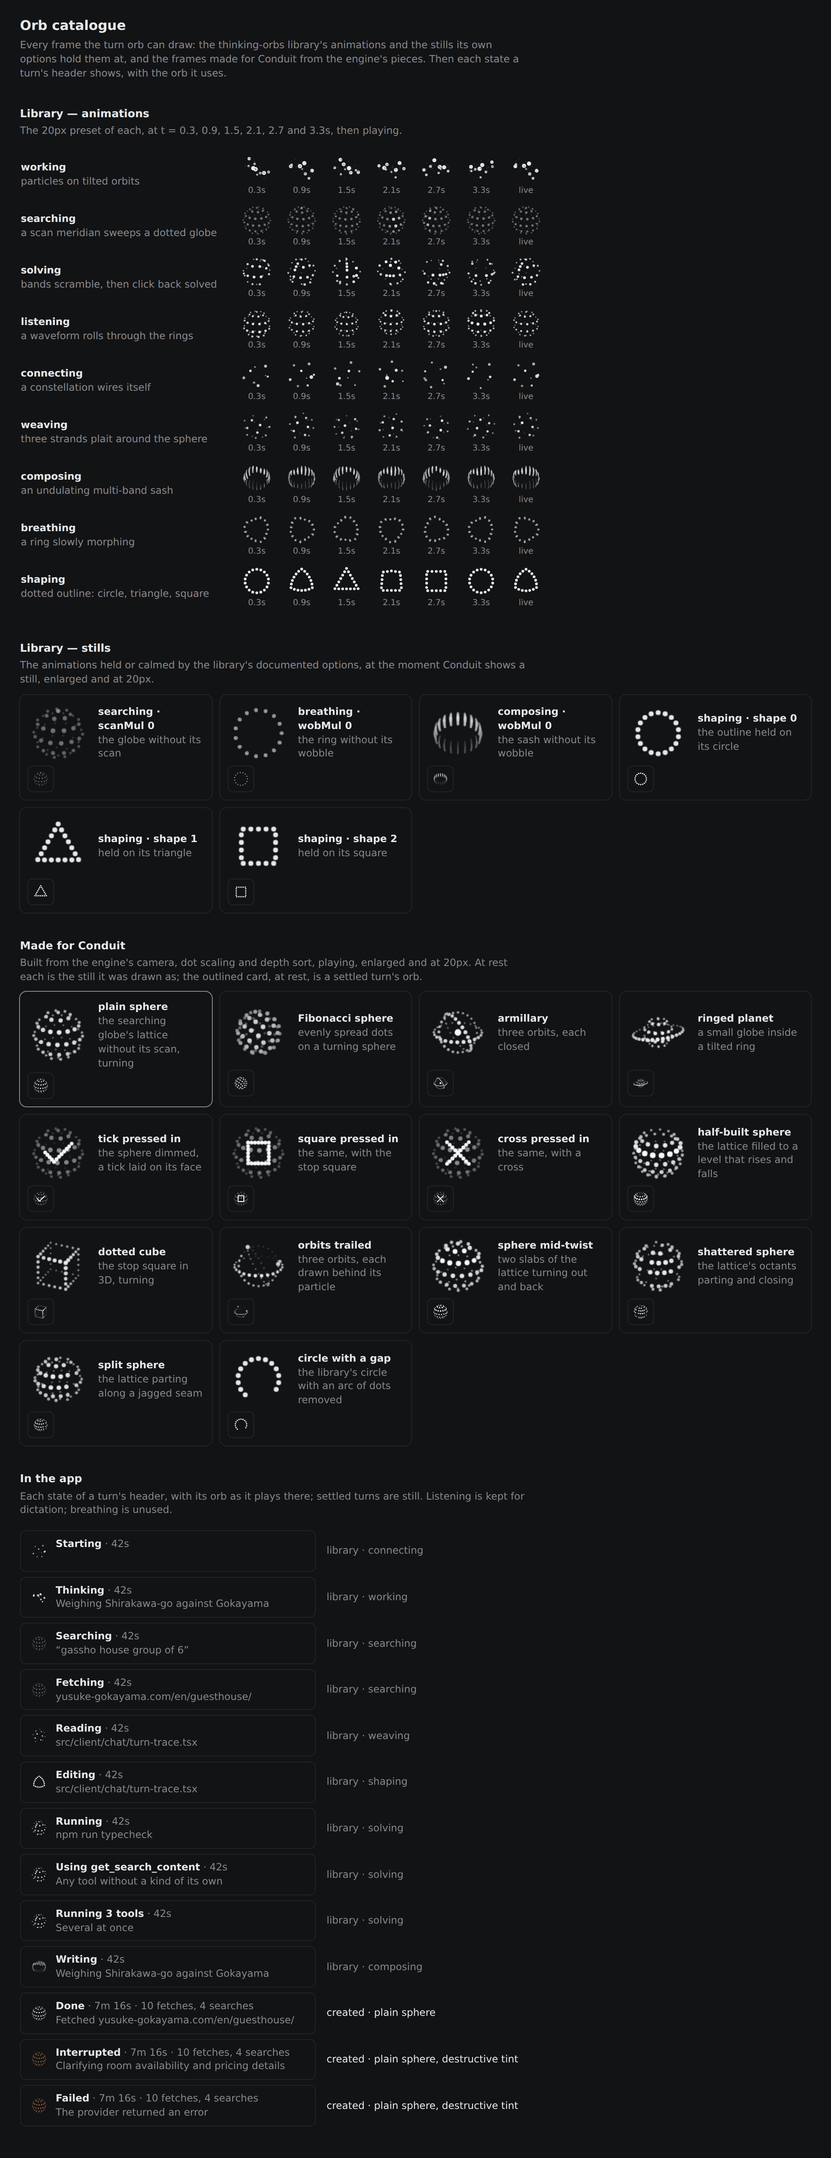
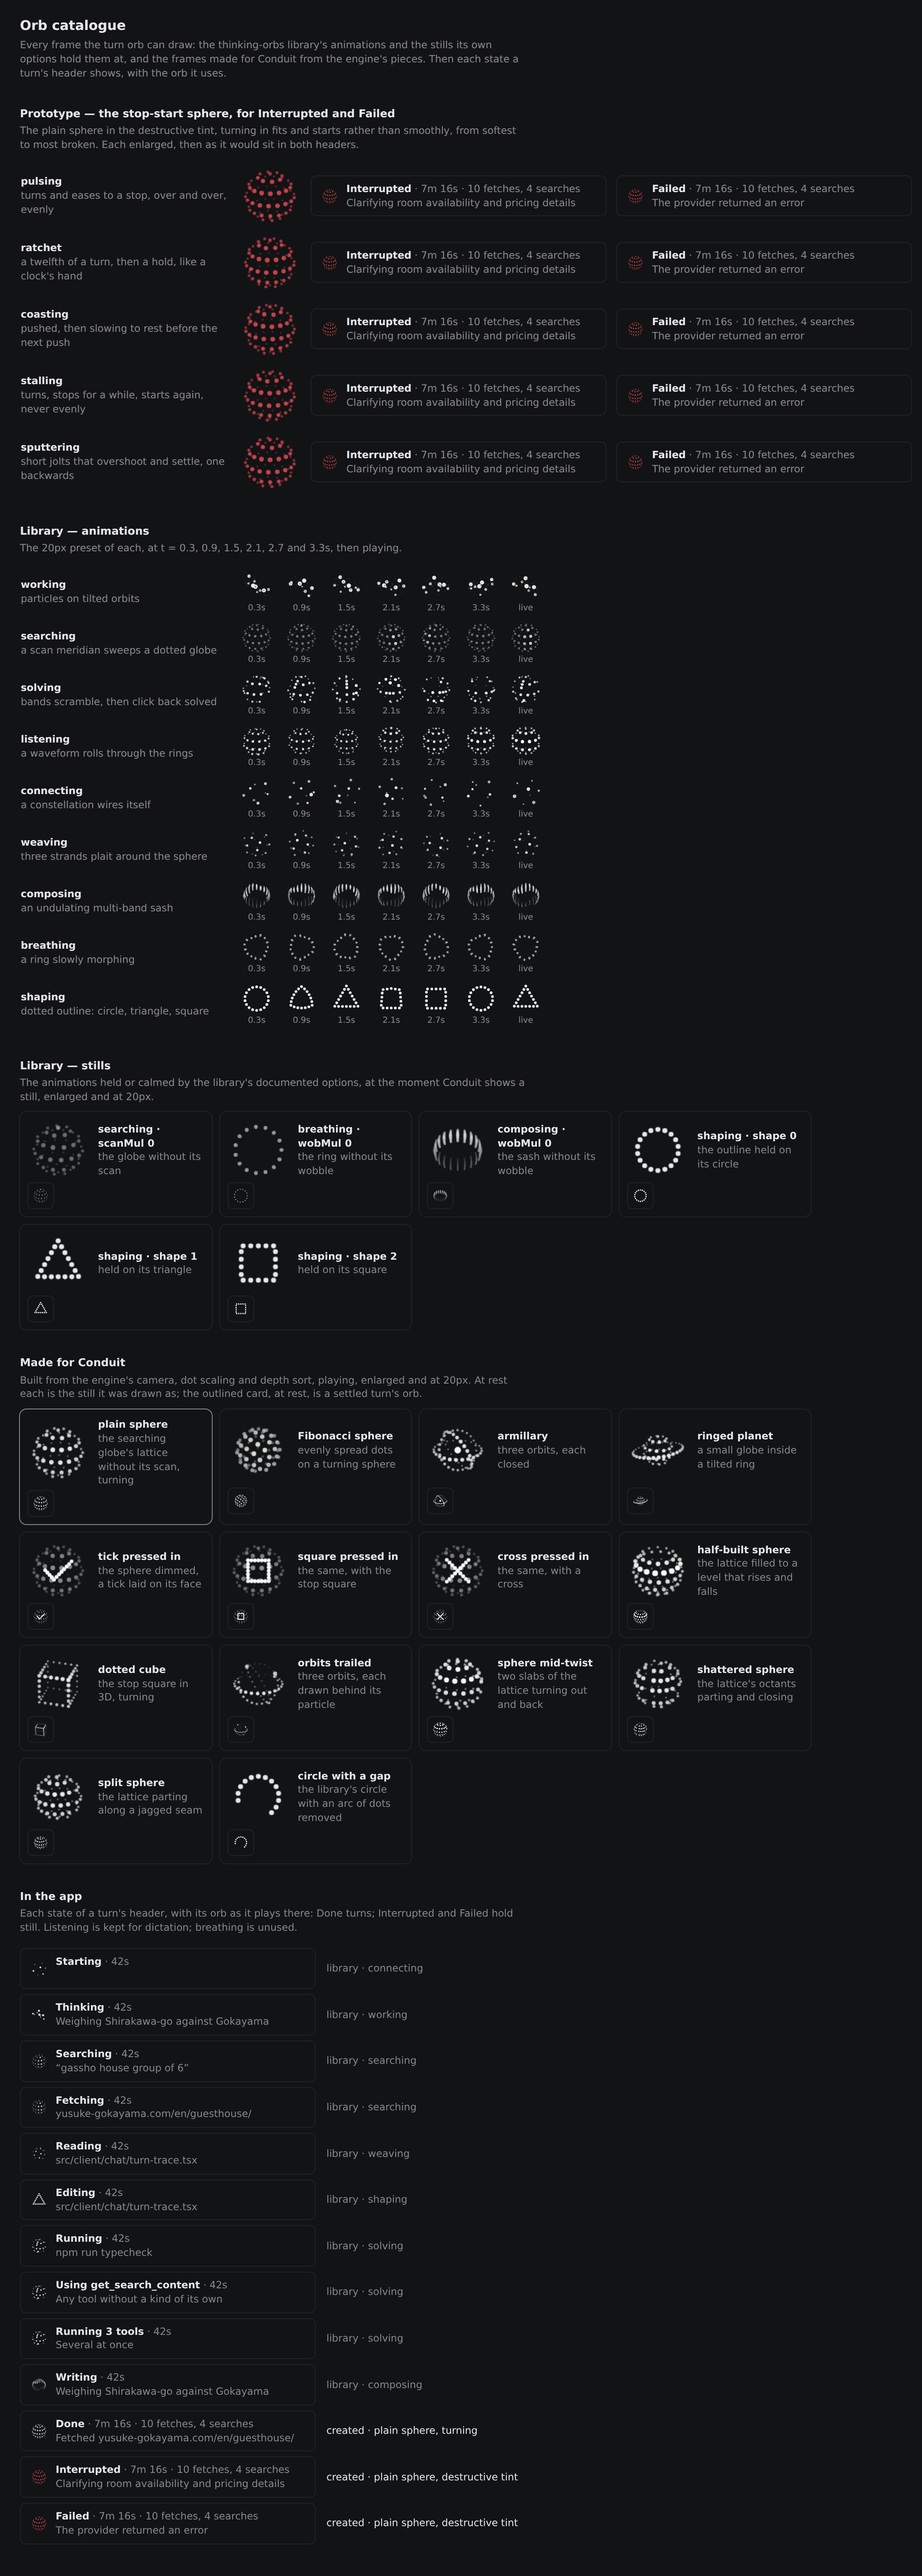
A finished turn's sphere turns, and the catalogue prototypes a stop-start sphere for turns that did not finish
Done plays the plain sphere turning slowly, a full turn in about twelve
seconds; Interrupted and Failed hold it still in the destructive tint. A
frame drawn for Conduit is given plain seconds rather than the preset speed
of whatever state it stands in for. The catalogue opens with five stop-start
turns of the same sphere, tinted, from an even pulse to a sputter, each shown
in both headers.

Claude-Session: https://claude.ai/code/session_01Fp6u71kgB3uYM7cXSJCU3s

diff --git a/docs/orb-stills/catalogue.js b/docs/orb-stills/catalogue.js
@@ -55,10 +55,31 @@ const gapped = (frame, at, half) => ({ ...frame, dots: frame.dots.filter((d) => 
 const SPIN = 0.5;
 const ease = (t, rate) => 0.5 - 0.5 * Math.cos(t * rate);
 
-function plainSphere(t = 0) {
-  const pt = makeProj(0.55 + t * SPIN, 0.42, C, C, R);
+function sphereAt(yaw) {
+  const pt = makeProj(yaw, 0.42, C, C, R);
   return finalizeFrame(lattice(6, 17).map(({ p }) => { const [x, y, z] = pt(...p); return shade(x, y, z, (z + 1) / 2); }), [], 0.3);
 }
+const plainSphere = (t = 0) => sphereAt(0.55 + t * SPIN);
+
+/* How far the sphere has turned by `t`, told as a loop of segments:
+   [seconds, radians, easing]. A segment without radians is a hold. */
+const smooth = (x) => x * x * (3 - 2 * x);
+const easeOut = (x) => 1 - (1 - x) ** 3;
+const backOut = (x) => 1 + 2.7 * (x - 1) ** 3 + 1.7 * (x - 1) ** 2;
+function turning(segments) {
+  const period = segments.reduce((sum, [seconds]) => sum + seconds, 0);
+  const lap = segments.reduce((sum, [, radians = 0]) => sum + radians, 0);
+  return (t) => {
+    const loops = Math.floor(t / period);
+    let rest = t - loops * period, angle = loops * lap;
+    for (const [seconds, radians = 0, ease = smooth] of segments) {
+      if (rest < seconds) return angle + radians * ease(rest / seconds);
+      angle += radians; rest -= seconds;
+    }
+    return angle;
+  };
+}
+const stopStart = (angle) => (t = 0) => sphereAt(0.55 + angle(t));
 
 function fibonacciSphere(t) {
   const n = 64, dots = [];
@@ -192,6 +213,16 @@ export const CREATED = [
   ["circle with a gap", "the library's circle with an arc of dots removed", (t = 0) => gapped(still("shaping", { shape: 0 })(), -Math.PI / 4 + t * 2.4, 0.75)],
 ];
 
+/* Prototypes for a turn that did not finish: the plain sphere turning in
+   fits and starts, from softest to most broken. */
+export const PROTOTYPES = [
+  ["pulsing", "turns and eases to a stop, over and over, evenly", stopStart((t) => SPIN * (t - Math.sin(t * 2.2) / 2.2))],
+  ["ratchet", "a twelfth of a turn, then a hold, like a clock's hand", stopStart(turning([[0.3, TAU / 12], [0.7]]))],
+  ["coasting", "pushed, then slowing to rest before the next push", stopStart(turning([[2.2, 1.5, easeOut], [0.9]]))],
+  ["stalling", "turns, stops for a while, starts again, never evenly", stopStart(turning([[1.1, 0.8], [0.9], [0.45, 0.22], [1.3], [0.8, 0.5], [0.5]]))],
+  ["sputtering", "short jolts that overshoot and settle, one backwards", stopStart(turning([[0.16, 0.26, backOut], [0.55], [0.12, 0.14, backOut], [1.0], [0.2, -0.07], [0.35], [0.14, 0.3, backOut], [1.2]]))],
+];
+
 /* Each state a turn's header shows, the orb it shows it with, and a line of
    the kind that sits under it. */
 export const IN_APP = [
@@ -205,7 +236,7 @@ export const IN_APP = [
   ["Using get_search_content", "Any tool without a kind of its own", "library · solving", animation("solving")],
   ["Running 3 tools", "Several at once", "library · solving", animation("solving")],
   ["Writing", "Weighing Shirakawa-go against Gokayama", "library · composing", animation("composing")],
-  ["Done", "Fetched yusuke-gokayama.com/en/guesthouse/", "created · plain sphere", plainSphere, { settled: true }],
+  ["Done", "Fetched yusuke-gokayama.com/en/guesthouse/", "created · plain sphere, turning", plainSphere, { settled: true, play: true }],
   ["Interrupted", "Clarifying room availability and pricing details", "created · plain sphere, destructive tint", plainSphere, { settled: true, tint: true }],
   ["Failed", "The provider returned an error", "created · plain sphere, destructive tint", plainSphere, { settled: true, tint: true }],
 ];

diff --git a/conduit-web/src/client/chat/turn-trace.tsx b/conduit-web/src/client/chat/turn-trace.tsx
@@ -5,7 +5,7 @@ import type { Message, ToolItem, ToolKind } from "../api/contracts";
 import type { TraceSegment, TurnTraceData } from "../turn-rows";
 import { KIND_ICONS, stepDuration, ToolStep, VERBS } from "./tool-card";
 import "./turn-trail.css";
-import { ORB_AT_REST } from "./orb-stills";
+import { PLAIN_SPHERE } from "./orb-stills";
 import { ThinkingOrb, type ModeFrame, type OrbState } from "./thinking-orb";
 import { Disclosure } from "./disclosure";
 import type { MarkdownRendererId } from "./markdown-settings";
@@ -224,11 +224,11 @@ const KIND_ORBS: Record<ToolKind, OrbState> = {
   command: "solving", read: "weaving", edit: "shaping", search: "searching", fetch: "searching", other: "solving",
 };
 
-function statusOf(trace: TurnTraceData, writing: boolean): { verb: string; orb: OrbState; still?: ModeFrame } {
-  // Settled, the orb is a still: the orb at rest.
+function statusOf(trace: TurnTraceData, writing: boolean): { verb: string; orb: OrbState; frame?: ModeFrame } {
+  // Settled, the orb is the plain sphere.
   if (!trace.active) {
     const verb = ({ interrupted: "Interrupted", failed: "Failed" } as Record<string, string>)[trace.status] || "Done";
-    return { verb, orb: "working", still: ORB_AT_REST };
+    return { verb, orb: "working", frame: PLAIN_SPHERE };
   }
   const running = trace.segments.flatMap((segment) => segment.kind === "tool" && !segment.tool.done ? [segment.tool] : []);
   if (running.length > 1) return { verb: `Running ${running.length} tools`, orb: "solving" };
@@ -308,16 +308,15 @@ function turnTime(trace: () => Pick<TurnTraceData, "active" | "startedAt" | "end
 export function TurnTrace(props: { trace: TurnTraceData; writing?: boolean; sessionId: string | null; renderer?: MarkdownRendererId; pacing?: IncremarkPacingMode; profileLabel?: string; initialOpen?: boolean; onOpenChange?: (open: boolean) => void; toolOpen?: (id: string) => boolean; onToolOpenChange?: (id: string, open: boolean) => void; onRendered?: () => void }) {
   const preview = createMemo(() => previewOf(props.trace, Boolean(props.writing)));
   const time = turnTime(() => props.trace);
+  const unfinished = () => !props.trace.active && (props.trace.status === "failed" || props.trace.status === "interrupted");
   return <Disclosure class="turn-trace" data-active={props.trace.active ? "true" : "false"} headerClass="turn-trace-header" bodyClass="turn-trace-body"
     initialOpen={props.initialOpen} onOpenChange={props.onOpenChange}
     header={<>
       {/* One box, live and settled, so nothing beside it moves when the turn
-          ends. A turn that did not finish -- stopped or failed -- tints the orb. */}
+          ends. A turn that did not finish -- stopped or failed -- tints the
+          orb and holds it still; a finished one's sphere turns. */}
       <span class="turn-trace-mark">
-        {/* Settled it is still, pointer or not: movement is what says a turn
-            is working. */}
-        <ThinkingOrb state={preview().status.orb} frame={preview().status.still} paused={!props.trace.active}
-          tint={!props.trace.active && (props.trace.status === "failed" || props.trace.status === "interrupted") ? "var(--destructive)" : undefined} />
+        <ThinkingOrb state={preview().status.orb} frame={preview().status.frame} paused={unfinished()} tint={unfinished() ? "var(--destructive)" : undefined} />
       </span>
       <div class="turn-trace-preview">
         {/* Two lines: what it is doing, and its latest step. The first is

diff --git a/docs/orb-stills/contact-sheet.html b/docs/orb-stills/contact-sheet.html
@@ -46,6 +46,10 @@
 <h1>Orb catalogue</h1>
 <p>Every frame the turn orb can draw: the thinking-orbs library's animations and the stills its own options hold them at, and the frames made for Conduit from the engine's pieces. Then each state a turn's header shows, with the orb it uses.</p>
 
+<h2>Prototype — the stop-start sphere, for Interrupted and Failed</h2>
+<p>The plain sphere in the destructive tint, turning in fits and starts rather than smoothly, from softest to most broken. Each enlarged, then as it would sit in both headers.</p>
+<table id="prototypes"></table>
+
 <h2>Library — animations</h2>
 <p>The 20px preset of each, at t = 0.3, 0.9, 1.5, 2.1, 2.7 and 3.3s, then playing.</p>
 <table id="library"></table>
@@ -59,12 +63,12 @@
 <div class="cards" id="created"></div>
 
 <h2>In the app</h2>
-<p>Each state of a turn's header, with its orb as it plays there; settled turns are still. Listening is kept for dictation; breathing is unused.</p>
+<p>Each state of a turn's header, with its orb as it plays there: Done turns; Interrupted and Failed hold still. Listening is kept for dictation; breathing is unused.</p>
 <table id="app"></table>
 
 <script type="module">
 import { paintFrame } from "../../conduit-web/node_modules/thinking-orbs/dist/engine.es.js";
-import { CREATED, IN_APP, LIBRARY, LIBRARY_HELD } from "./catalogue.js";
+import { CREATED, IN_APP, LIBRARY, LIBRARY_HELD, PROTOTYPES } from "./catalogue.js";
 
 const DPR = 4;
 const MOMENTS = [0.3, 0.9, 1.5, 2.1, 2.7, 3.3];
@@ -115,15 +119,21 @@ function cards(id, rows, play) {
 cards("held", LIBRARY_HELD, false);
 cards("created", CREATED, true);
 
-function header(verb, line, at, { settled = false, tint = false } = {}) {
+function header(verb, line, at, { settled = false, tint = false, play = !settled } = {}) {
   const lines = el("div", "lines");
   const time = settled ? "7m 16s · 10 fetches, 4 searches" : "42s";
   lines.innerHTML = `<div class="line1"><b>${verb}</b> · ${time}</div><div class="line2">${line || "&nbsp;"}</div>`;
-  return el("div", "header dark-bg", orb(at, 20, { tint, play: !settled }), lines);
+  return el("div", "header dark-bg", orb(at, 20, { tint, play }), lines);
 }
 for (const [verb, line, source, at, show] of IN_APP) {
   const tr = el("tr", "", el("td", "", header(verb, line, at, show)), el("td", `source${source.startsWith("created") ? " created" : ""}`, source));
   document.getElementById("app").append(tr);
+}
+
+for (const [name, what, at] of PROTOTYPES) {
+  document.getElementById("prototypes").append(el("tr", "", label(name, what), el("td", "", orb(at, 72, { tint: true, play: true })),
+    el("td", "", header("Interrupted", "Clarifying room availability and pricing details", at, { settled: true, tint: true, play: true })),
+    el("td", "", header("Failed", "The provider returned an error", at, { settled: true, tint: true, play: true }))));
 }
 
 window.done = true;

diff --git a/conduit-web/src/client/chat/orb-stills.ts b/conduit-web/src/client/chat/orb-stills.ts
@@ -1,20 +1,22 @@
 import { finalizeFrame, makeProj, radiusScale, type Dot, type ModeFrame } from "thinking-orbs/engine";
 
 /*
- * A settled turn's mark: the orb at rest. The searching state's lat/lon
+ * A settled turn's mark: the plain sphere. The searching state's lat/lon
  * lattice, without its scan, projected by the engine's camera and shaded in
  * its depth language -- near dots larger and brighter, far ones smaller and
- * dimmer -- so it is the same object as the live orb, stopped. The
+ * dimmer -- so it is the same object as the live orb, calmed. It turns
+ * slowly, a full turn in about twelve seconds, `t` being seconds. The
  * catalogue in docs/orb-stills shows it beside every other frame the orb can
  * draw, and which state uses each.
  */
 const LAT_RINGS = 6;
 const LON_DENSITY = 17;
+const SPIN = 0.5;
 
-export const ORB_AT_REST: ModeFrame = (size) => {
+export const PLAIN_SPHERE: ModeFrame = (size, t) => {
   const c = size / 2;
   const scale = radiusScale(size, 0.6);
-  const project = makeProj(0.55, 0.42, c, c, c * 0.82);
+  const project = makeProj(0.55 + t * SPIN, 0.42, c, c, c * 0.82);
   const dots: Dot[] = [];
   for (let ring = 0; ring <= LAT_RINGS; ring++) {
     const lat = -Math.PI / 2 + (ring / LAT_RINGS) * Math.PI;

diff --git a/conduit-web/src/client/chat/thinking-orb.tsx b/conduit-web/src/client/chat/thinking-orb.tsx
@@ -15,7 +15,8 @@ export type { ModeFrame, ModeOpts, OrbState };
  * both still moving, so there is never a frame with nothing in it. Paused --
  * a settled turn, or reduced motion -- it is one still frame, and changes
  * without a fade. `frame` replaces the state's geometry outright, for a
- * still drawn in the engine's terms rather than taken from an animation.
+ * frame drawn in the engine's terms rather than taken from the library; it
+ * is given plain seconds, not the state's preset speed.
  */
 const SIZE = 20;
 const DWELL_MS = 250;
@@ -66,8 +67,9 @@ export function ThinkingOrb(props: { state: OrbState; opts?: ModeOpts; frame?: M
   onCleanup(() => clearTimeout(pending));
 
   const presetOf = (item: Shown) => {
+    if (item.frame) return { speed: 1, opts: item.opts || {}, frame: item.frame };
     const preset = resolvePreset(item.state, SIZE);
-    return { ...preset, opts: { ...preset.opts, ...item.opts }, frame: item.frame ?? MODE_FRAMES[preset.mode] };
+    return { speed: preset.speed, opts: { ...preset.opts, ...item.opts }, frame: MODE_FRAMES[preset.mode] };
   };
   const frontPreset = createMemo(() => presetOf(shown()));
   const backPreset = createMemo(() => { const item = leaving(); return item ? presetOf(item) : null; });

diff --git a/DESIGN.md b/DESIGN.md
@@ -286,7 +286,7 @@ Motion explains a change of place: where something went, and what took its place
 
 **Trace header** — two lines, live and settled. The first is `Status · time · work`, after the orb: status is one verb in the foreground at weight 560, always shown -- live, a running tool's kind as a verb (Running, Reading, Editing, Searching, Fetching; Using `<name>` for any other), `Running N tools` for several at once, Thinking between tools, Writing once the answer streams; settled, Done, Interrupted or Failed. Time is muted and tabular, seconds always two digits (`01s` … `59s`, then `1m 02s`), ticking from the prompt while live and prompt to last reply once settled. Work is single-word counts by kind (commands, reads, edits, searches, fetches, tools), every kind, most used first; left out when no tool ran. The second line is the trail's latest line, muted and cut to one line: a running tool's subject as its adapter states it (the command, a search's query in quotes, a path from its end, a page -- for Pi, read out of the call's arguments while the model is still writing them), then that step in the past tense (`Ran pwd && ls -la`) until the next step replaces it, and the thinking whenever it arrives. Settled, the last thinking if there was any, otherwise the last step. It is held open while the turn runs so nothing jumps when it arrives; a turn with no thinking and no tools is one line. The chevron sits on the first line.
 
-**Thinking orb** — the trace header's mark, 20px, centred on its two lines: a dotted orb drawn by thinking-orbs' canvas engine (MIT; only its engine is used, Solid drives it). Its motion says what the turn is doing -- connecting while starting, working while thinking (the base), searching for anything on the web, weaving while reading, shaping while editing, solving for a command, any tool without its own, or several at once, composing while the answer streams. A change holds for a quarter of a second at least, then crossfades over 200ms -- the new state fading in over the old as it fades out, both moving -- so a burst of instant tool calls does not flicker it, it keeps up with the label, and there is never an empty frame. Settled, it is one still frame and stays still under the pointer: the orb at rest -- the globe's lattice without its scan, in the engine's depth shading -- in the ordinary ink for Done and tinted `{colors.destructive}` for Interrupted and Failed. The catalogue of every frame -- the library's and Conduit's -- and which state uses each is `docs/orb-stills/contact-sheet.html`. Reduced motion is a still frame throughout. Listening is kept for dictation.
+**Thinking orb** — the trace header's mark, 20px, centred on its two lines: a dotted orb drawn by thinking-orbs' canvas engine (MIT; only its engine is used, Solid drives it). Its motion says what the turn is doing -- connecting while starting, working while thinking (the base), searching for anything on the web, weaving while reading, shaping while editing, solving for a command, any tool without its own, or several at once, composing while the answer streams. A change holds for a quarter of a second at least, then crossfades over 200ms -- the new state fading in over the old as it fades out, both moving -- so a burst of instant tool calls does not flicker it, it keeps up with the label, and there is never an empty frame. Settled, it is the plain sphere -- the globe's lattice without its scan, in the engine's depth shading: for Done in the ordinary ink, turning slowly (a full turn in about twelve seconds), and for Interrupted and Failed tinted `{colors.destructive}` and still. The catalogue of every frame -- the library's and Conduit's -- and which state uses each is `docs/orb-stills/contact-sheet.html`. Reduced motion is a still frame throughout. Listening is kept for dictation.
 
 **Trace trail** — the opened trace: one light line per step on the body's rail, no boxes. A tool step is its kind's icon (a spinner while it runs), a verb -- present while running, past once done (Ran, Read, Edited, Searched, Fetched; Used `<name>` otherwise) -- its subject in muted mono, and its duration muted and right-aligned; a failed step's icon takes the destructive tint and says Failed, one a stop cut short says Stopped. A thinking or narration step is its summary line. Two or more tool steps of one kind in a row are one line ("Ran 5 fetches"), folded like every other line, the steps on a rail of their own beneath it. Any line opens in place, under its verb: a tool's output, a thinking step's full text. Hover and focus are the wash; the chevron shows only on the cursor or when open. Discarded text is struck and says Not kept at the right. Reasoning the provider returned only encrypted is one italic note where it first happened -- "Reasoning not shared by the provider" -- not a line per step. Sizes are the header's, a step under the answer: lines, verbs and durations at 0.8125rem, the subject in mono at 0.75rem, and what a line opens to a step up for prose (0.875rem) and at 0.75rem for mono -- in rem, so the desktop's and the phone's bases each place the trail with its header.
 
